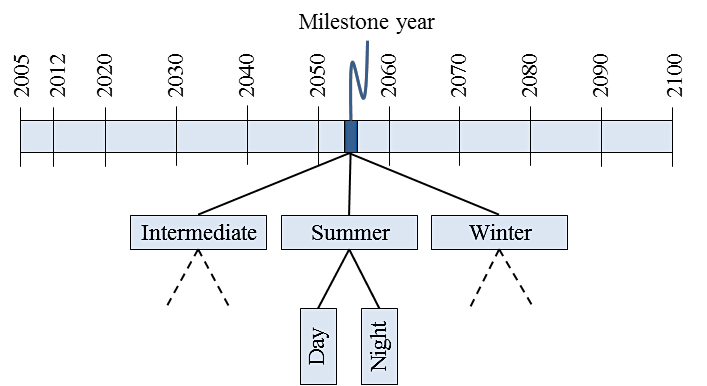
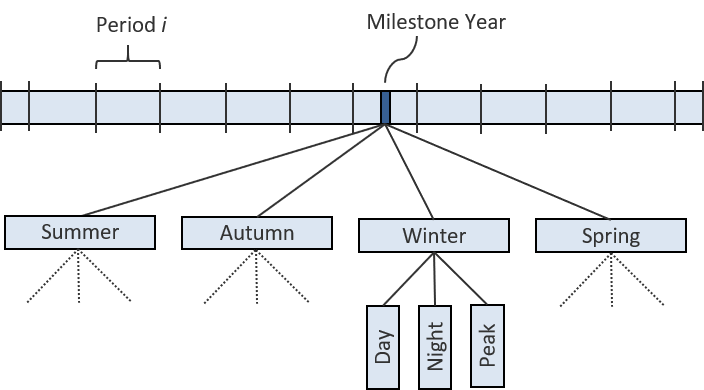
changed time resolution and figure

diff --git a/docs/model_objective/time-horizon.md b/docs/model_objective/time-horizon.md
@@ -1,6 +1,6 @@
 # Time Resolution
 
-The TIAM model covers a time horizon from 2015 to 2100, which is divided into ten periods. The model splits each time period into six time slices consisting of three seasons, namely, summer, winter, and intermediate with equal length (i.e., four months). To consider changes in load based on sector demand profiles, each season is further divided into day and night accounting for 16 hours and 8 hours, respectively (Figure 1).
+The TIAM model covers a time horizon from 2015 to 2100, which is divided into ten periods. The model splits each time period into twelve time slices consisting of four seasons, namely, summer, autum, winter and spring with equal length (i.e., three months). To consider changes in load based on sector demand profiles, each season is further divided into day, night and peak (cf. Figure 1).
 
 ![Time Horizon in TIAM](./figs/time-horizon.png) 
 
